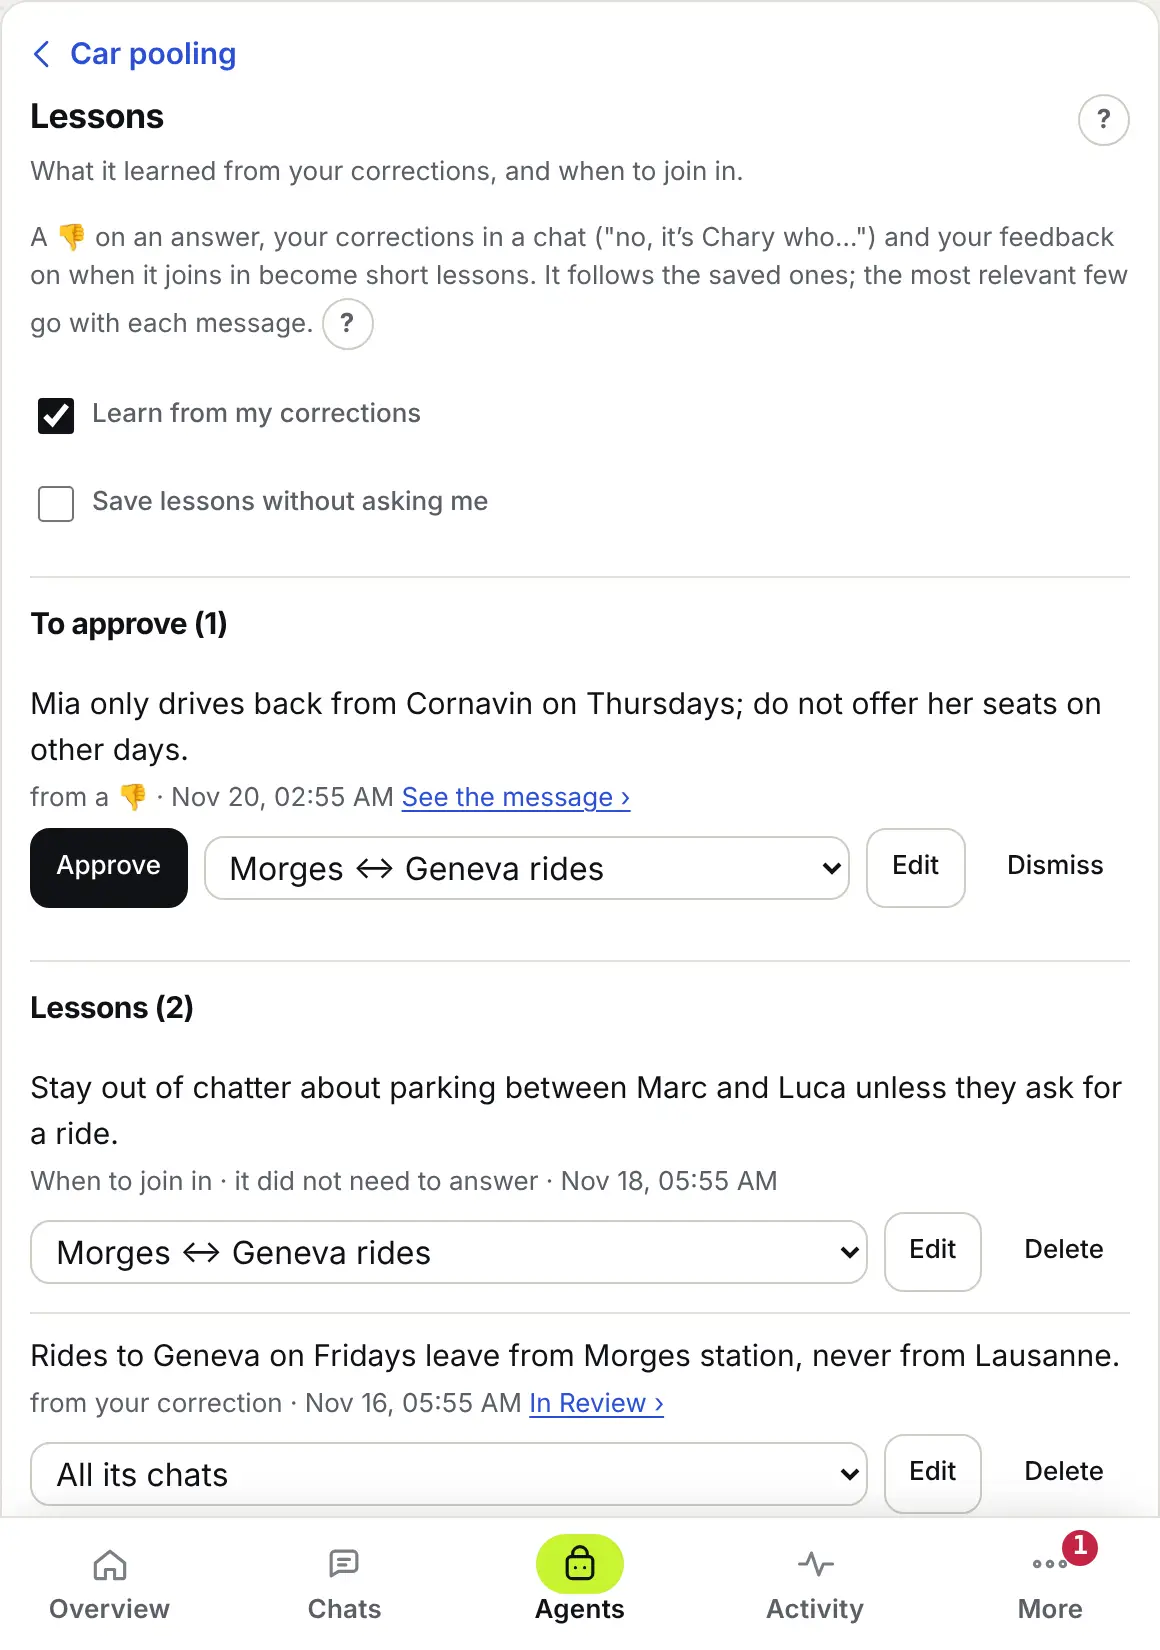
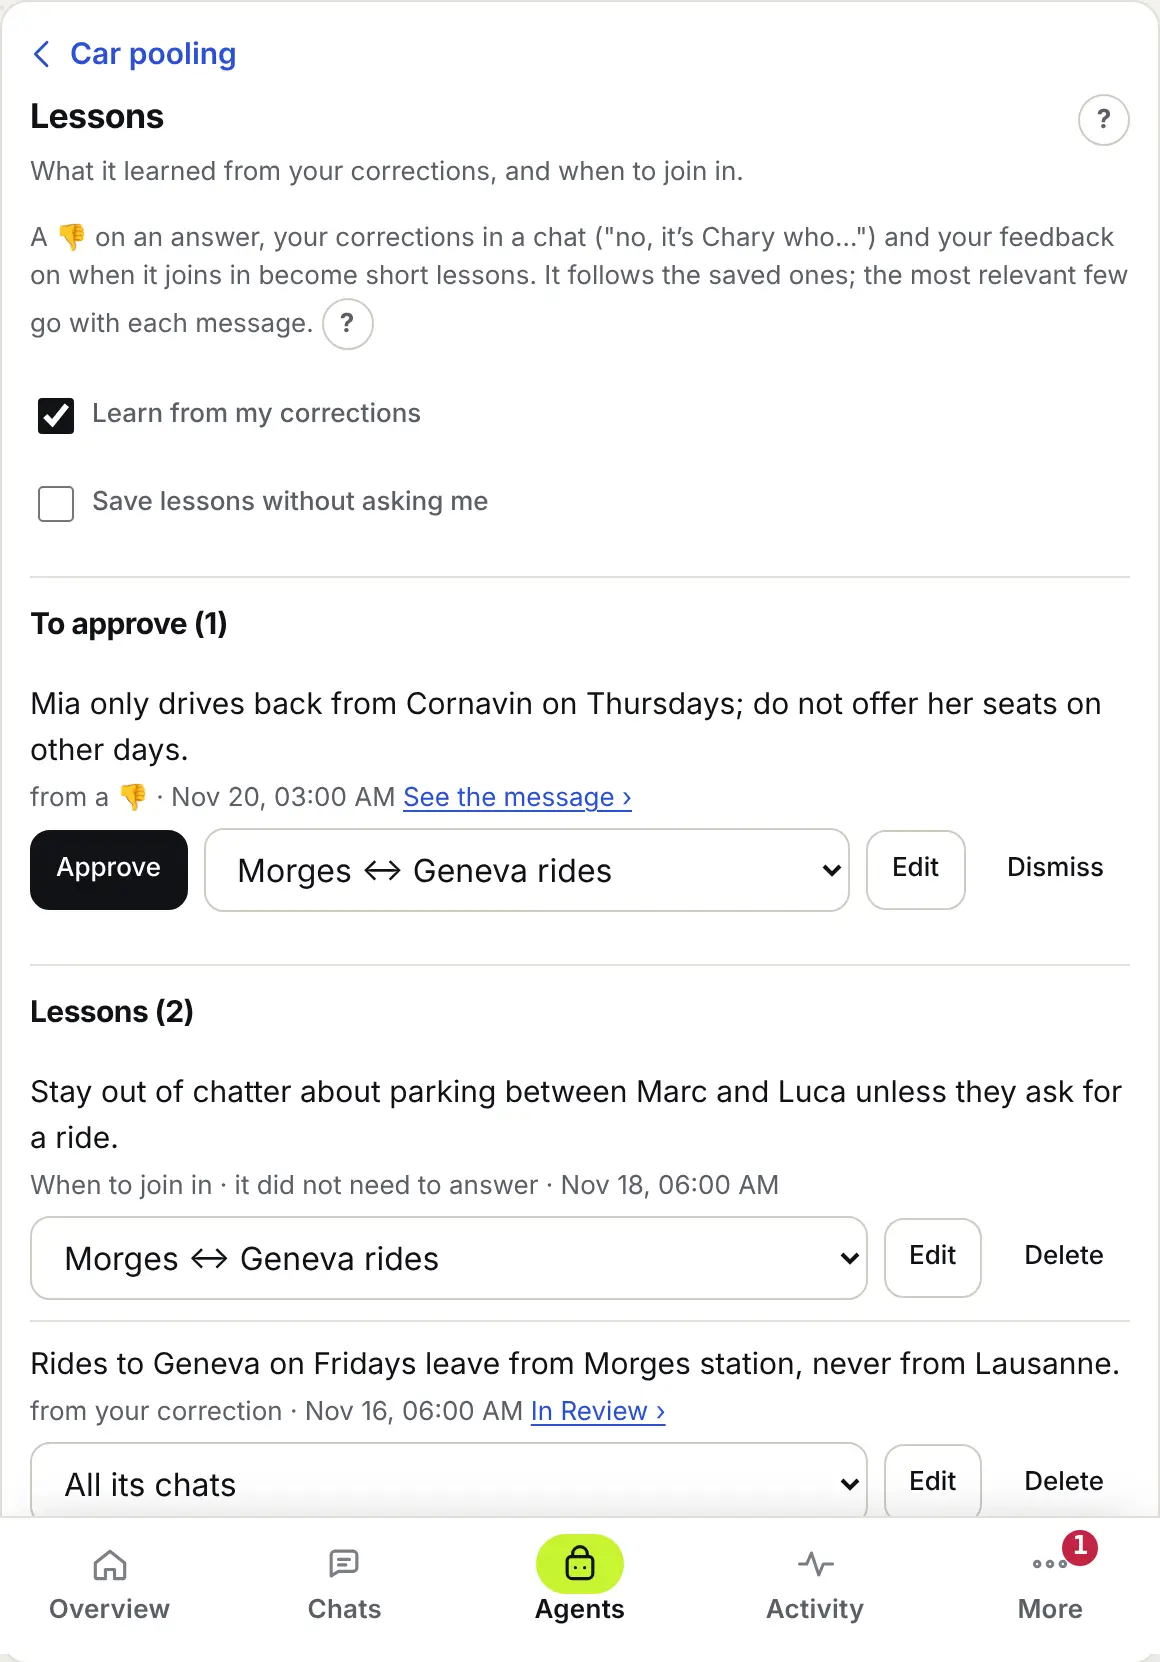
Lessons: perf workload, tap targets, screenshot

diff --git a/docs/site/index.html b/docs/site/index.html
@@ -199,7 +199,7 @@
         <span class="label">Learns from you</span>
         <h3>Correct it once. It remembers — after your OK.</h3>
         <p>A 👎 on an answer, “no, it’s Chary who drives” in the group, or <b>Didn’t need to answer</b> under something it said by itself becomes a short <b>lesson</b>. You approve it with one tap; from then on the most relevant lessons go with every message, and agents that read groups by themselves learn when to stay out.</p>
-        <a class="shot" href="img/card-lessons.webp"><img src="img/card-lessons.webp" width="1160" height="1650" loading="lazy" alt="Lessons of the Car pooling agent: one waiting for approval, two saved, one of them about when to join in."></a>
+        <a class="shot" href="img/card-lessons.webp"><img src="img/card-lessons.webp" width="1160" height="1662" loading="lazy" alt="Lessons of the Car pooling agent: one waiting for approval, two saved, one of them about when to join in."></a>
       </article>
 
       <article class="tile wide">

diff --git a/src/core/lessons.js b/src/core/lessons.js
@@ -133,7 +133,7 @@ const proposalsToday = (agent) => db.prepare("SELECT COUNT(*) AS n FROM lessons 
 async function propose({ agent, chat, kind, source, msg = null, input, by = '' }) {
   if (agent.lessons?.enabled === false || proposalsToday(agent.id) >= MAX_PROPOSALS_PER_DAY) return null;
   try {
-    const res = await modelChat({ model: 'auto', purpose: 'background', maxTokens: 120, usage: { agent: agent.id, chat, kind: 'lessons' },
+    const res = await modelChat({ model: 'auto', purpose: 'background', maxTokens: 120, fallback: undefined, usage: { agent: agent.id, chat, kind: 'lessons' },
       system: kind === 'join' ? JOIN : PROPOSE, messages: [{ role: 'user', content: clip(input, 3000) }] });
     const out = res.content.filter((b) => b.type === 'text').map((b) => b.text).join(' ').trim();
     if (!out || /^NONE\b/i.test(out)) return null;

diff --git a/src/panel/public/app/styles.css b/src/panel/public/app/styles.css
@@ -795,4 +795,4 @@ button.lrow { width: 100%; border: 0; background: none; font: inherit; text-alig
 .lessons li { padding: 10px 0; display: grid; gap: 4px; }
 .lessons li + li { border-top: 1px solid var(--line); }
 .lesson-text { overflow-wrap: anywhere; }
-.lessons select { width: auto; max-width: 100%; min-height: 32px; padding: 2px 8px; }
+.lessons select { width: auto; max-width: 100%; }
